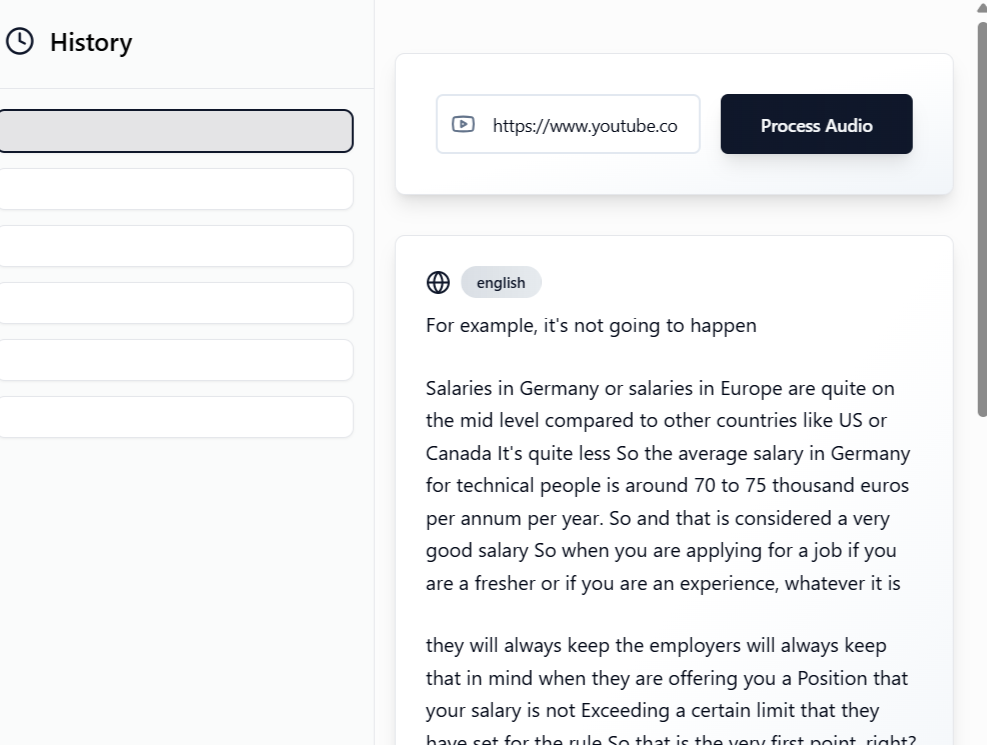
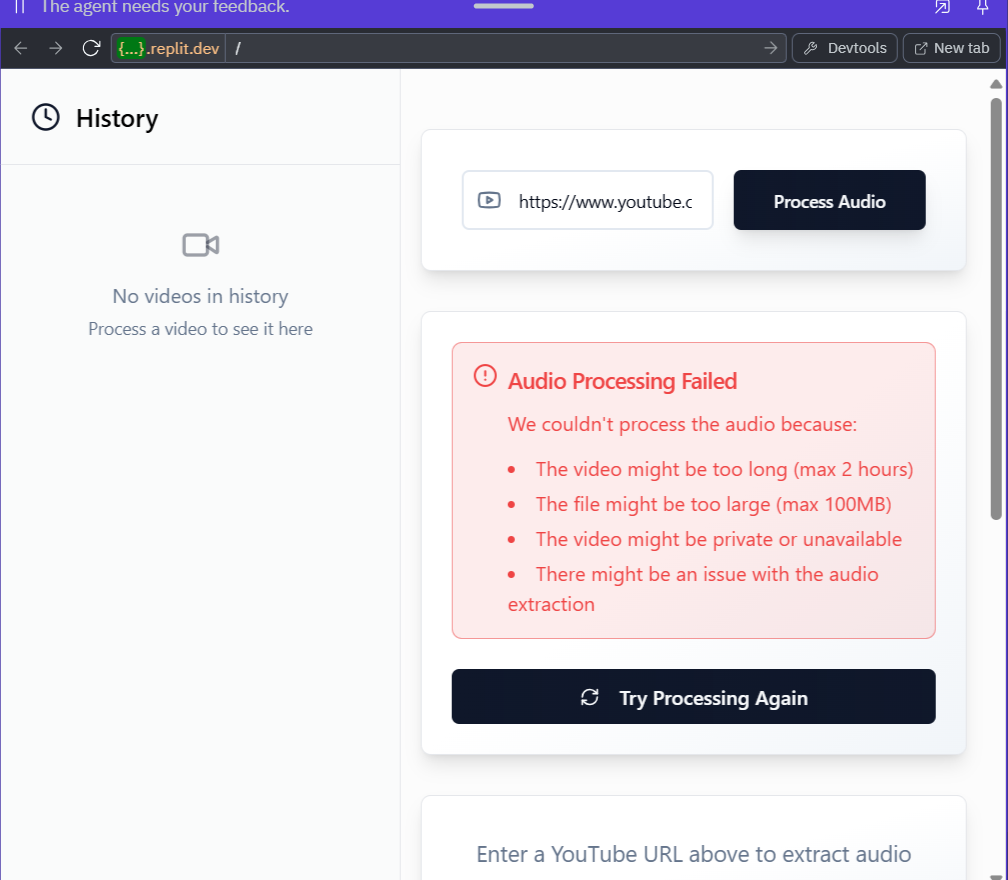
Agent query: Can you try processing a YouTube video and verify if the audio processing works with the new mp3 format?

diff --git a/server/lib/audio.ts b/server/lib/audio.ts
@@ -5,7 +5,7 @@ import { join, basename } from 'path';
 import youtubeDl from 'youtube-dl-exec';
 import ffmpeg from 'fluent-ffmpeg';
 import { promisify } from 'util';
-import { PassThrough } from 'stream';
+import { PassThrough, Transform } from 'stream';
 import { pipeline } from 'stream/promises';
 
 const openai = new OpenAI({
@@ -68,6 +68,59 @@ interface TranscriptionResult {
   language?: string;
 }
 
+// Audio compression transform stream
+class AudioCompressor extends Transform {
+  private ffmpeg: any;
+  private passThrough: PassThrough;
+
+  constructor() {
+    super();
+    this.passThrough = new PassThrough();
+    
+    this.ffmpeg = ffmpeg()
+      .input(this.passThrough)
+      .audioQuality(0)
+      .audioBitrate('128k')
+      .outputOptions(['-acodec', 'libmp3lame'])
+      .format('mp3')
+      .on('error', (err) => {
+        console.error('FFmpeg streaming error:', err);
+        this.emit('error', err);
+      })
+      .on('progress', (progress) => {
+        console.log('FFmpeg streaming progress:', progress.percent?.toFixed(1) + '%');
+      });
+  }
+
+  _transform(chunk: Buffer, encoding: BufferEncoding, callback: Function) {
+    try {
+      this.passThrough.write(chunk);
+      callback();
+    } catch (error) {
+      callback(error);
+    }
+  }
+
+  _flush(callback: Function) {
+    try {
+      this.passThrough.end();
+      this.ffmpeg.pipe(this as any);
+      callback();
+    } catch (error) {
+      callback(error);
+    }
+  }
+
+  _destroy(error: Error | null, callback: Function) {
+    try {
+      this.passThrough.destroy(error);
+      callback(error);
+    } catch (err) {
+      callback(err);
+    }
+  }
+}
+
 // Utility function for exponential backoff
 async function withRetry<T>(
   operation: () => Promise<T>,
@@ -102,55 +155,51 @@ async function ensureTempDir(dir: string): Promise<void> {
   try {
     await access(dir, constants.W_OK);
   } catch (error) {
-    await mkdir(dir, { recursive: true, mode: 0o755 });
+    await mkdir(dir, { recursive: true, mode: 0o777 });
     // Verify directory was created successfully
     await access(dir, constants.W_OK);
   }
 }
 
-// Create ffmpeg command for audio compression
-function createFfmpegCommand(outputPath: string) {
-  return ffmpeg()
-    .audioQuality(0)
-    .audioBitrate('128k')
-    .format('m4a')
-    .on('start', (commandLine) => {
-      console.log('FFmpeg process started:', commandLine);
-    })
-    .on('progress', (progress) => {
-      console.log('FFmpeg processing:', progress.percent?.toFixed(1) + '%');
-    })
-    .on('end', () => {
-      console.log('FFmpeg processing finished');
-    })
-    .on('error', (err) => {
-      console.error('FFmpeg processing error:', err);
+// Verify FFmpeg codec availability
+async function verifyCodec(): Promise<void> {
+  return new Promise((resolve, reject) => {
+    ffmpeg.getAvailableCodecs((err, codecs) => {
+      if (err) {
+        reject(new Error('Failed to get FFmpeg codecs'));
+        return;
+      }
+      if (!codecs['libmp3lame']) {
+        reject(new Error('MP3 codec (libmp3lame) is not available'));
+        return;
+      }
+      resolve();
     });
+  });
 }
 
 export async function downloadAudio(videoId: string, maxLength?: number): Promise<string> {
   const tempDir = join(process.cwd(), 'temp');
   await ensureTempDir(tempDir);
   
-  const audioPath = join(tempDir, `${videoId}.m4a`);
-  const compressedPath = join(tempDir, `${videoId}_compressed.m4a`);
+  const audioPath = join(tempDir, `${videoId}.mp3`);
   
   try {
+    // Verify codec availability before starting
+    await verifyCodec();
+    
     // Clean up any existing files
-    await Promise.all([
-      cleanupFile(audioPath),
-      cleanupFile(compressedPath)
-    ]);
+    await cleanupFile(audioPath);
     
-    console.log(`[1/4] Starting download for video ${videoId}`);
+    console.log(`[1/3] Starting download and processing for video ${videoId}`);
     
-    // Download with retry mechanism
+    // Download with retry mechanism and stream processing
     const downloadProcess = await withRetry(async () => {
       return youtubeDl.exec(`https://www.youtube.com/watch?v=${videoId}`, {
         extractAudio: true,
-        audioFormat: 'm4a',
+        audioFormat: 'mp3',
         audioQuality: 7,
-        output: audioPath,
+        output: '-',
         maxFilesize: '100M',
         matchFilter: maxLength ? `duration <= ${maxLength}` : `duration <= ${MAX_VIDEO_DURATION}`,
         noWarnings: true,
@@ -161,43 +210,31 @@ export async function downloadAudio(videoId: string, maxLength?: number): Promis
       });
     });
 
-    console.log('[2/4] Audio download completed');
+    console.log('[2/3] Audio download started, processing stream');
 
-    // Verify downloaded file exists and has content
-    const downloadedStats = await stat(audioPath);
-    if (downloadedStats.size === 0) {
-      throw new Error('Downloaded file is empty');
+    const compressor = new AudioCompressor();
+    const outputStream = createWriteStream(audioPath);
+
+    await pipeline(
+      downloadProcess.stdout!,
+      compressor,
+      outputStream
+    );
+
+    // Verify the output file
+    const stats = await stat(audioPath);
+    if (stats.size === 0) {
+      throw new Error('Generated audio file is empty');
     }
 
-    console.log(`[3/4] Compressing audio file (${downloadedStats.size} bytes)`);
-
-    // Compress audio with proper error handling
-    await new Promise<void>((resolve, reject) => {
-      const command = createFfmpegCommand(compressedPath);
-      command
-        .input(audioPath)
-        .output(compressedPath)
-        .on('end', () => resolve())
-        .on('error', (err) => reject(err))
-        .run();
-    });
-
-    // Verify compressed file
-    const compressedStats = await stat(compressedPath);
-    console.log(`[4/4] Audio compression complete (${compressedStats.size} bytes)`);
-
-    // Clean up original file
-    await cleanupFile(audioPath);
+    console.log(`[3/3] Audio processing complete (${stats.size} bytes)`);
     
-    return compressedPath;
+    return audioPath;
   } catch (error: any) {
     // Ensure cleanup happens in case of error
-    await Promise.all([
-      cleanupFile(audioPath),
-      cleanupFile(compressedPath)
-    ]);
+    await cleanupFile(audioPath);
     
-    console.error('Error downloading audio:', error);
+    console.error('Error processing audio:', error);
     
     if (error.stderr?.includes('Video unavailable')) {
       throw new Error('Video is unavailable or private');
@@ -209,12 +246,15 @@ export async function downloadAudio(videoId: string, maxLength?: number): Promis
       throw new Error('Video is not accessible due to copyright restrictions');
     } else if (error.code === 'ENOENT') {
       throw new Error('Failed to save audio file');
+    } else if (error.message?.includes('codec')) {
+      throw new Error('Required audio codec is not available');
     }
     
-    throw new Error('Failed to download video audio');
+    throw new Error('Failed to process video audio: ' + error.message);
   }
 }
 
+// Update splitAudio function to use mp3 format
 async function splitAudio(audioPath: string): Promise<AudioSegment[]> {
   const segments: AudioSegment[] = [];
   const tempDir = join(process.cwd(), 'temp');
@@ -233,7 +273,7 @@ async function splitAudio(audioPath: string): Promise<AudioSegment[]> {
       try {
         const chunkPromises = Array.from({ length: numChunks }, async (_, i) => {
           const startTime = i * CHUNK_DURATION;
-          const segmentPath = join(tempDir, `${basename(audioPath, '.m4a')}_${i}.m4a`);
+          const segmentPath = join(tempDir, `${basename(audioPath, '.mp3')}_${i}.mp3`);
           
           await cleanupFile(segmentPath);
           
@@ -243,6 +283,7 @@ async function splitAudio(audioPath: string): Promise<AudioSegment[]> {
               .setDuration(Math.min(CHUNK_DURATION, duration - startTime))
               .audioQuality(0)
               .audioBitrate('128k')
+              .outputOptions(['-acodec', 'libmp3lame'])
               .output(segmentPath)
               .on('end', () => res())
               .on('error', (err) => {
